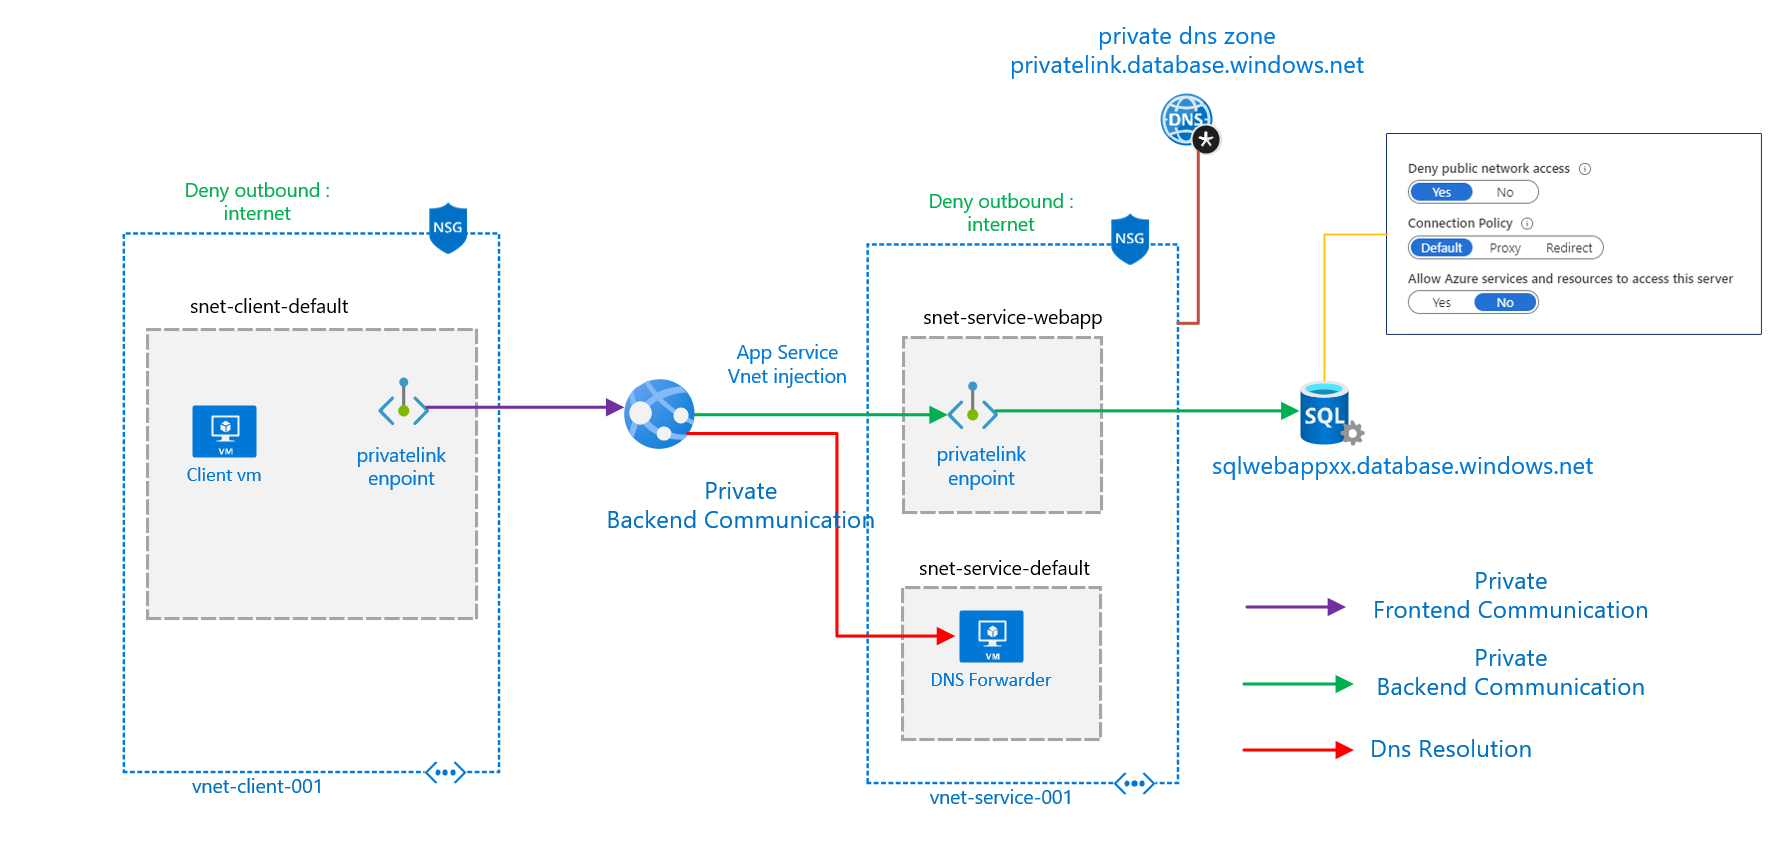
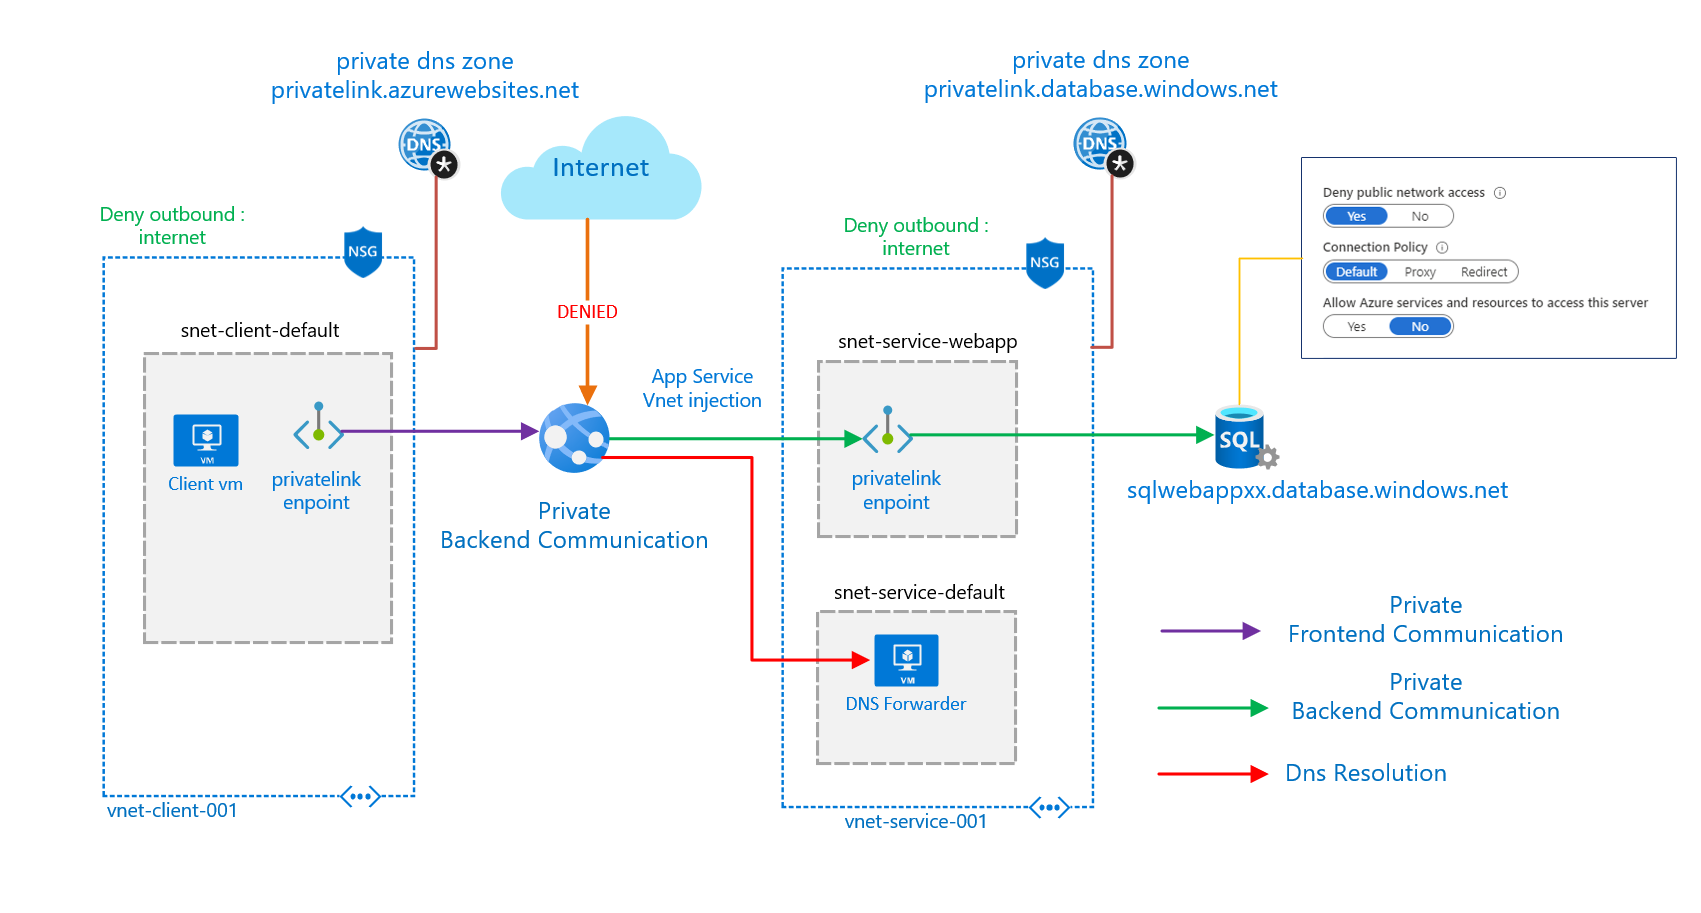
private web app README

diff --git a/privatewebapp/README.md b/privatewebapp/README.md
@@ -1,12 +1,63 @@
 # Web Application privatelink 
 
-This scenario shows a web app that comunicates privately to an azure sql database using a privatelink endpoint.
-The Frontend of the webapp is private
+This scenario shows a web app that comunicates privately to an azure sql database and has a private frontend.
+Consumed by a client in a private manner via appservice private link.
 
 [![Deploy to Azure](https://aka.ms/deploytoazurebutton)](https://portal.azure.com/#create/Microsoft.Template/uri/https%3A%2F%2Fraw.githubusercontent.com%2Fmblanco77%2Fprivatelink%2Fmaster%2Fprivatewebapp%2Fazuredeploy.json)
 
  
 ![](images/pvtfrontendwebapp.png)
+
+
+
+this escenario is deployed using arm templates by executing deploy.ps1
+### [deploy.ps1](deploy.ps1)
+inputs for deploy.ps1:
+```yaml
+$resourceGroupName : azure rource group name (new or existing) 
+
+$location: azure region where de deployment should run 
+
+$vmUser : Username for the virtual machines
+
+$vmPass : password asigned to virtual machines
+
+```
+
+output:
+```yaml
+OutputsString           :
+                          Name             Type                       Value
+                          ===============  =========================  ==========
+                          vmuser           String                     azureuser
+                          vmpass           String                     P1xxxxxxxxxx
+                          vmClienturl      String                     vmconsumerxxxx.eastus.cloudapp.azure.com
+                          webappurl        String                     webapppxxxxx.azurewebsites.net
+```                          
+
+## How to test the scenario
+
+
+1. Browse into the sample web app (webappurl) https://webapppxxxxx.azurewebsites.net , you should see the an access denied error.
+Because when the private link endpoint is created , Public access to the web app is denied.
+
+
+![](images/publicaccessdenied.png)
+
+2. RDP into the client vm (vmClienturl) , and via powershell make a Test-Connection to the (webappurl) https://webapppxxxxx.azurewebsites.net , this should return the private endpoint address (10.10.0.4)
+
+![](images/testnetconn.png)
+
+
+3. Browse into the sample web app (webappurl) https://webapppxxxxx.azurewebsites.net , you should see the concerts home page
+
+![](images/concerts.png)
+
+4. Follow the Upcoming link, the application goes to the Database to fetch the records, this communication betweeen the web application and the database occurs in a private manner via the azure sql private link endpoint.
+
+This test that theres is actual comunication with the azure sql database
+
+![](images/listconcerts.png)
 
 
 

diff --git a/README.md b/README.md
@@ -54,11 +54,12 @@ The Frontend of the webapp is public
 
 # [Private Web Application with privatelink](privatewebapp/README.md)
 
-This scenario shows a web app that comunicates privately to an azure sql database using a privatelink endpoint.
-The Frontend of the webapp is private
+This scenario shows a web app that comunicates privately to an azure sql database and has a private frontend.
+Consumed by a client in a private manner via appservice private link.
 
 [![Deploy to Azure](https://aka.ms/deploytoazurebutton)](https://portal.azure.com/#create/Microsoft.Template/uri/https%3A%2F%2Fraw.githubusercontent.com%2Fmblanco77%2Fprivatelink%2Fmaster%2Fprivatewebapp%2Fazuredeploy.json)
 
  
+
 ![](privatewebapp/images/pvtfrontendwebapp.png)
 
